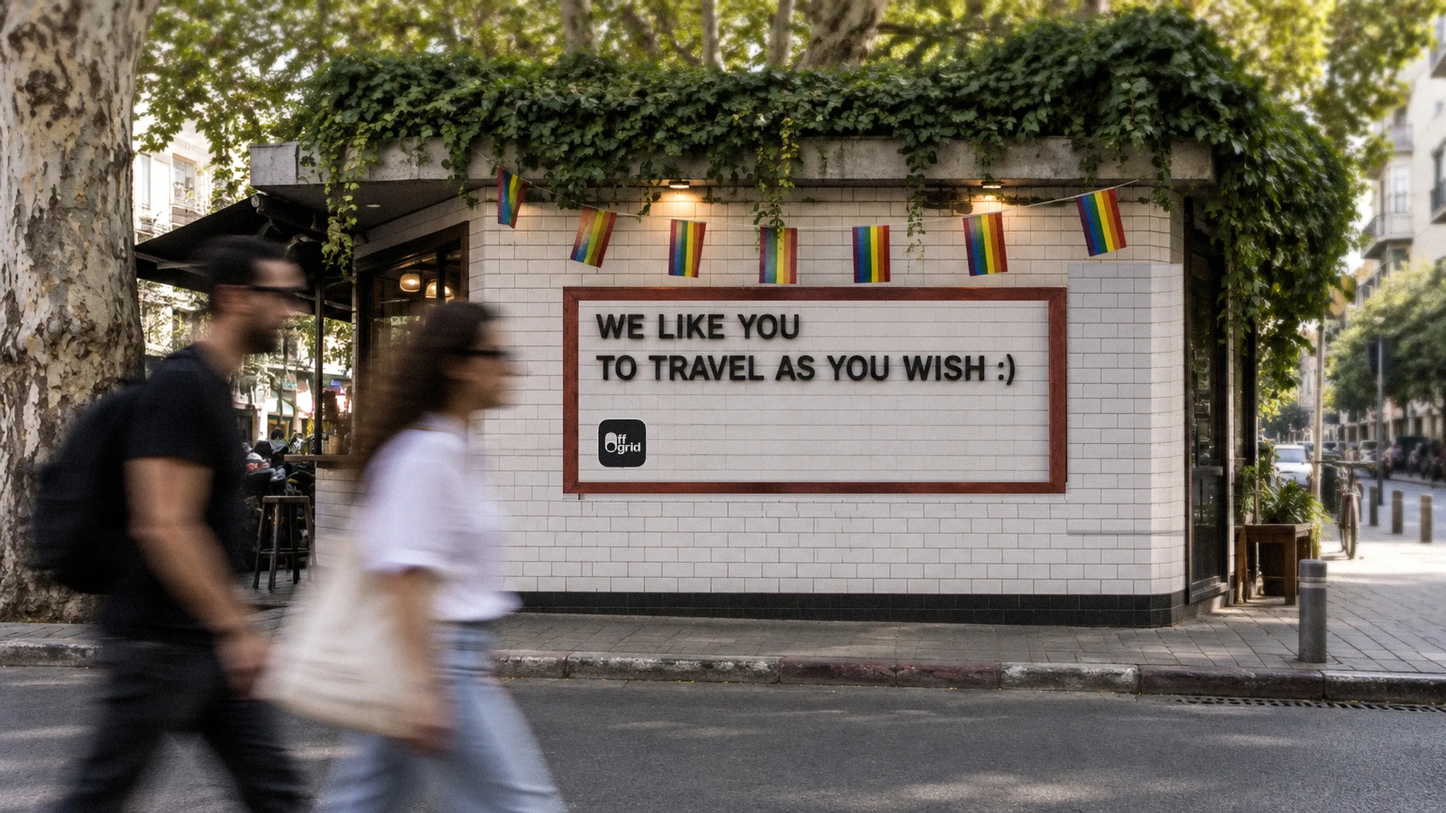
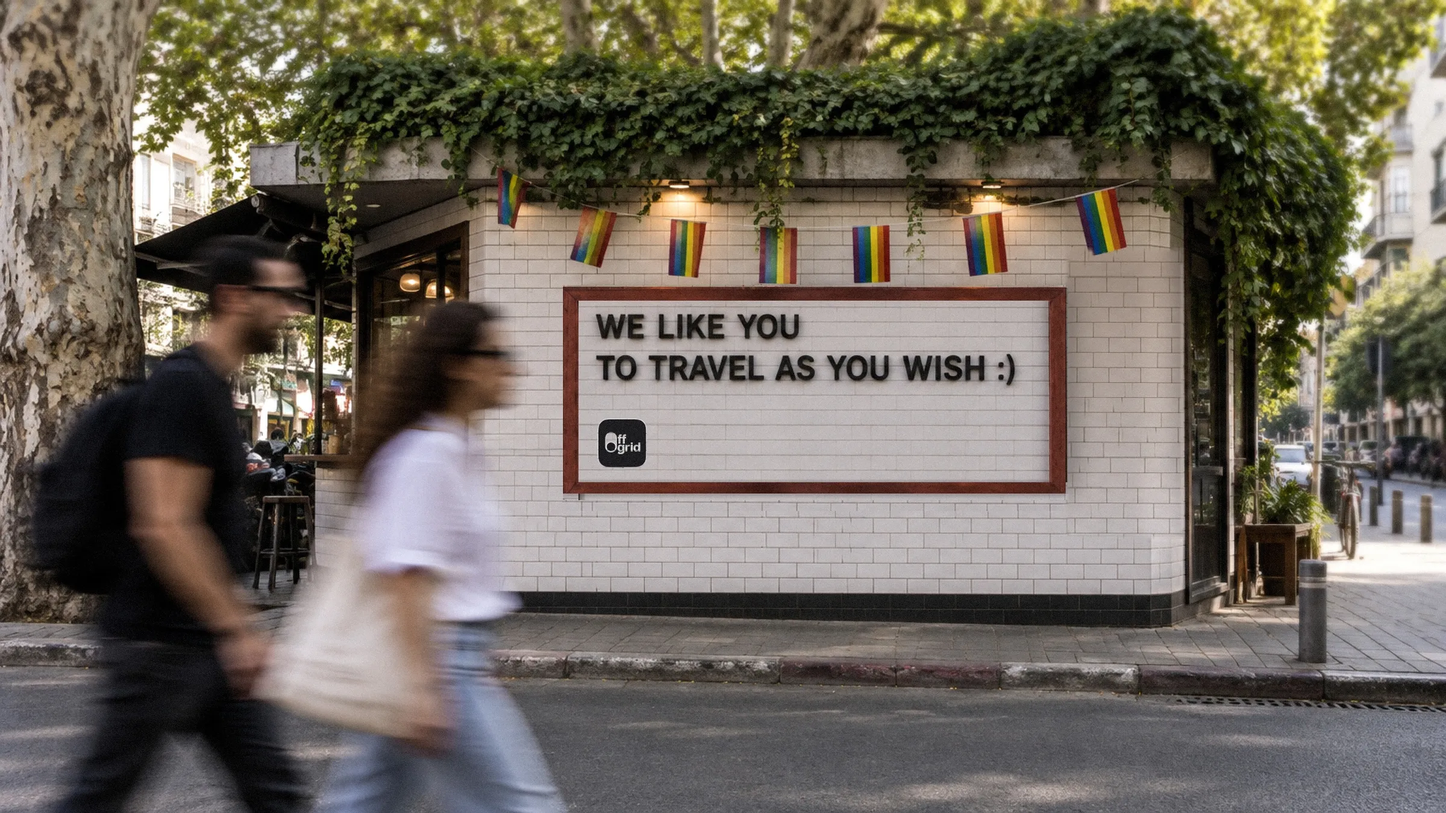
Off Grid and Headspace cover follow-ups
- Off Grid cover: blend the mismatched tile patch into the wall
- Off Grid: drop the old phones-over-street image under the cover
- Off Grid map and onboarding images: 8px background corners
- Headspace: title on the hero illustration, same cover style
- Clalit title uses a colon instead of an em dash

Claude-Session: https://claude.ai/code/session_01AWEnMoVE6YmqAoTVVZ56uk

Changed region(s): [[0.7188, 0.3111, 0.8438, 0.6844]]

diff --git a/index.html b/index.html
@@ -422,7 +422,7 @@ body.chat-view #thread{display:none}
 .hs-pair.one{grid-template-columns:46%;justify-content:center}
 .hs-pair .shot-img{border-radius:0;background:none;box-shadow:none}
 .hs-pair .shot-img:hover{box-shadow:none}
-.case-cover{position:relative;border-radius:var(--img-r);overflow:hidden;aspect-ratio:2172/1450;background:#D9D2C6;margin-bottom:24px}
+.case-cover{position:relative;border-radius:var(--img-r);overflow:hidden;aspect-ratio:var(--cover-ar,2172/1450);background:#D9D2C6;margin-bottom:24px}
 .case-cover>img{display:block;width:100%;height:100%;object-fit:cover}
 /* a mock cover keeps its own proportions; its em-based layout scales with the cover width */
 .case-cover.mock{aspect-ratio:var(--ar);container-type:inline-size;isolation:isolate}
@@ -1297,7 +1297,7 @@ const PROJECTS = [
     icon:'images/clalit-icon.png',
     line:'At Clalit, nurses relied on handwritten boards disconnected from the hospital’s digital records, making critical information easy to miss.',
     said:'I spent time on the wards observing and interviewing nurses to understand how different departments work and what each one needs. Those insights shaped a flexible system that adapts to different workflows while maintaining one consistent foundation. The result is a scalable, real-time patient record designed to work across medical teams, departments, and hospitals nationwide.',
-    title:'Clalit Innovation — Patient Record',
+    title:'Clalit Innovation: Patient Record',
     cover:['clalit-hero.webp','Nurses at a ward station under patient status screens while a bed rushes past'],
     summary:'A patient record platform for nursing staff that gives the whole department a clear, current overview of every patient.',
     role:'UX Designer', company:'Clalit Innovation', year:'2023',
@@ -1416,7 +1416,7 @@ const PROJECTS = [
     items:[
       {id:'whatsapp', __case:'whatsapp', mock:'whatsapp', ar:'4/5', title:'WhatsApp Events', summary:'Event planning tools built into WhatsApp group chats', role:'UX/UI designer', company:'School project', year:'2023', tags:['B2C','Mobile','UX/UI']},
       {id:'offgrid', __case:'offgrid', cover:['offgrid-cover.webp','Off Grid poster on a tiled street kiosk: We like you to travel as you wish'], mock:'offgrid', ar:'4/5', title:'Off Grid', summary:'A trip planner that builds each day around your interests', role:'UX/UI designer', company:'Personal project', year:'2022', tags:['B2C','Mobile','UX/UI']},
-      {id:'headspace', __case:'headspace', mock:'headspace', ar:'4/5', title:'Clalit × Headspace', summary:'The Clalit app reimagined in the Headspace design system', role:'UX & UI Design, Illustrator', company:'Concept project', year:'2022', tags:['B2C','Mobile','Illustration'],
+      {id:'headspace', __case:'headspace', cover:['headspace-hero.png','Headspace-style illustrations around a Clalit app screen','2880/1296'], mock:'headspace', ar:'4/5', title:'Clalit × Headspace', summary:'The Clalit app reimagined in the Headspace design system', role:'UX & UI Design, Illustrator', company:'Concept project', year:'2022', tags:['B2C','Mobile','Illustration'],
        intro:'An imaginary UI project that shows how the Clalit Health Services app could look if it inherited the Headspace design system.',
        context:['An imaginary UI design project showing how the Clalit Health Services app would look if it inherited the Headspace design system. The aim was a friendlier interface that improves the experience and accessibility for a wider audience.'],
        why:'A friendly, positive UI matters in healthcare products. It builds confidence, encourages people to engage with and keep track of their health, and eases the anxiety and stress that come with medical care. The result is a supportive space for managing your health.',
@@ -2150,11 +2150,12 @@ function spyToc(){
 }
 /* Header for the main (featured) case studies: the title sits on the cover, summary underneath.
    The cover is the project's photo, or its mock when it has no photo yet.
-   A title's em dash becomes a line break there, so "Clalit Innovation — Patient Record" reads as two lines. */
+   A title's colon becomes a line break there, so "Clalit Innovation: Patient Record" reads as two lines.
+   An optional third cover entry sets the cover's aspect ratio (desktop only). */
 function mainHead(p, meta, summary=p.summary){
-  const t = `<h1 id="case-title">${p.title.replace(/\s+—\s+/, '<br>')}</h1>`;
+  const t = `<h1 id="case-title">${p.title.replace(/:\s+/, '<br>')}</h1>`;
   const id = p.__customCase ? '' : ' id="case-hero"';
-  const cover = p.cover ? `<div class="case-cover"${id}><img src="images/${p.cover[0]}" alt="${p.cover[1]}">${t}</div>`
+  const cover = p.cover ? `<div class="case-cover"${id}${p.cover[2] ? ` style="--cover-ar:${p.cover[2]}"` : ''}><img src="images/${p.cover[0]}" alt="${p.cover[1]}">${t}</div>`
     : p.mock ? `<div class="case-cover mock"${id} style="--ar:${p.ar}">${MOCKS[p.mock]()}${t}</div>` : t;
   return `<header class="case-head main${cover !== t ? ' has-cover' : ''}">${cover}<p class="case-sum">${summary}</p>${meta}</header>`;
 }
@@ -2217,8 +2218,7 @@ function renderHeadspaceCase(p, next){
     return `<figure class="anno${sc.wide?' wide':''}${sc.rgut?' rgut':''}"><div class="anno-img"><div class="hs-pair${n===1?' one':''}" style="--n:${n}">${sc.imgs.map(([src,alt],k)=>`<div class="hs-col"><div class="shot-img"><img src="images/${src}" alt="${alt}" loading="lazy"></div><span class="hs-c">${caps[k]}</span></div>`).join('')}</div>${notes.map((o,k)=>`<span class="pin ${o.side}" data-n="${k+1}" style="--x:${o.x*100}%;--y:${o.y*100}%"><span class="lbl"><b>${o.t}</b>${o.d}</span></span>`).join('')}</div>
       ${notes.length ? `<ol class="anno-list">${notes.map(o=>`<li><b>${o.t}.</b> ${o.d}</li>`).join('')}</ol>` : ''}</figure>`; };
   caseInner.innerHTML = `
-    <header class="case-head"><h1 id="case-title">${p.title}</h1><p class="case-sum">${p.intro}</p>${metaDL(p)}</header>
-    <div class="ui-hero hs-hero"><img src="images/headspace-hero.png" alt="Headspace-style illustrations around a Clalit app screen"></div>
+    ${mainHead(p, metaDL(p), p.intro)}
     ${caseToc(CH)}
     ${chapter(1)}
     ${section('About', paras(p.context))}
@@ -2278,7 +2278,6 @@ function renderOffgridCase(p, next){
     <div class="og-car-dots">${slides.map((_,k)=>`<i${k?'':' class="on"'}></i>`).join('')}</div></div>`;
   caseInner.innerHTML = `
     ${mainHead(p, metaDL(p), 'A trip planning app that helps you travel your way: it gets you to the places you care about and arranges each day around your time and the distances between stops.')}
-    <div class="og-hero og-hero-wide ui-hero"><img src="images/offgrid-hero.webp" alt="Off Grid place, day agenda and map screens over a Tel Aviv street"></div>
     ${caseToc(CH)}
     ${chapter(1)}
     ${section('About', '<p>Off Grid is a B2C mobile app for travellers who want to tour like a local. You tell it what you are into and how much time you have, and it plans an optimal route for every day of the trip.</p>')}
